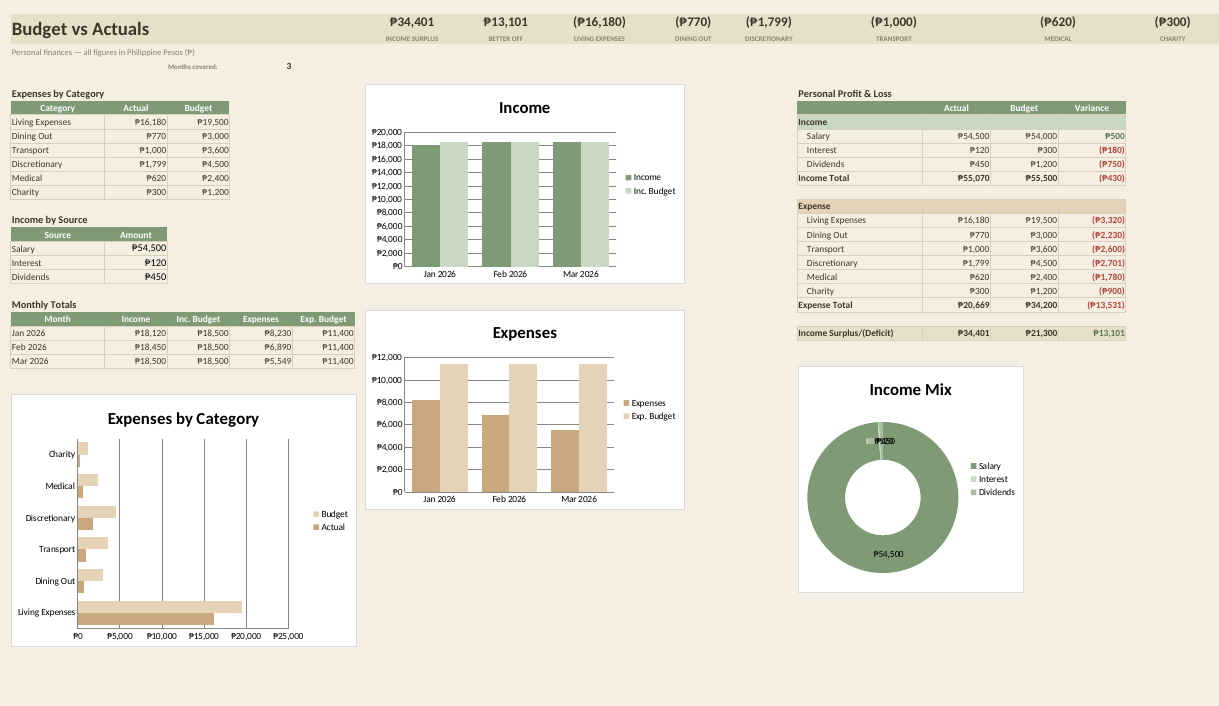
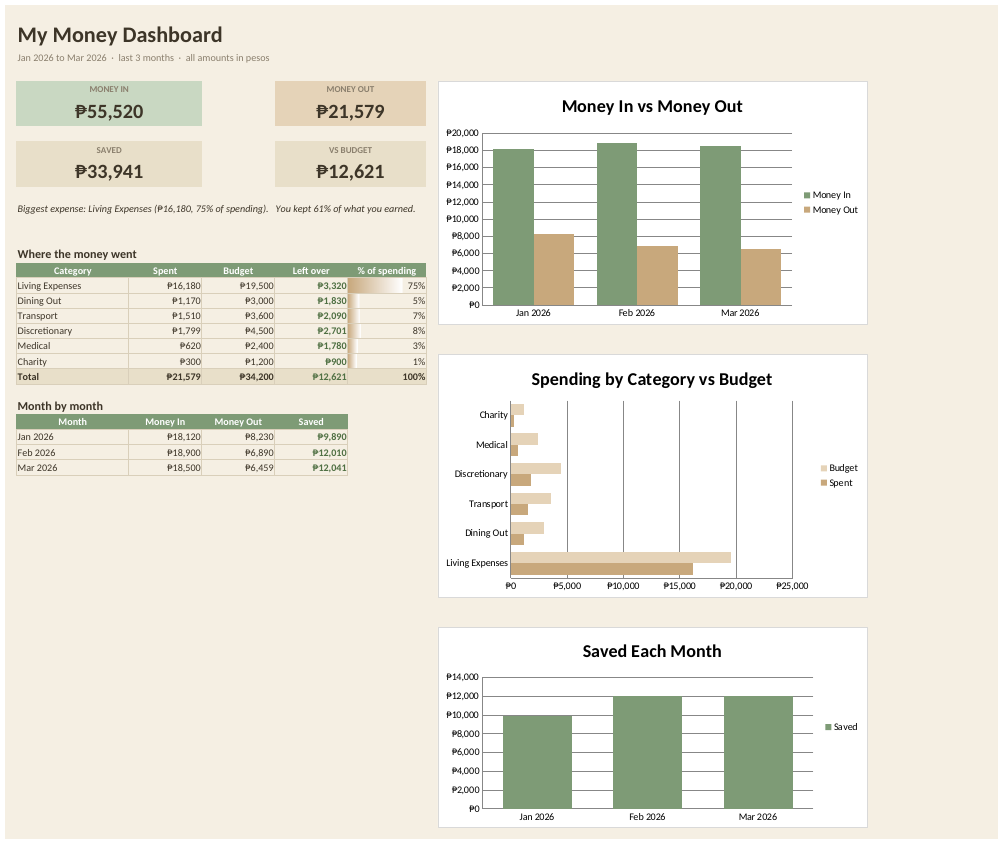
Update John Matthew Portfolio, update personal expense dashboard

diff --git a/index.html b/index.html
@@ -386,7 +386,7 @@
       </div>
       <div class="card">
         <h3>Personal Expense Dashboard</h3>
-        <p>A self-updating Excel dashboard tracking income and spending in pesos — formula-driven KPIs, a full profit &amp; loss breakdown, and four charts, built entirely with formulas so it recalculates as new rows are logged.</p>
+        <p>A self-updating Excel dashboard tracking income and spending in pesos. It always shows your three most recent months, and every number, chart, and summary line recalculates on its own as new rows are logged.</p>
         <div class="tags"><span class="tag">Excel</span><span class="tag">Formulas &amp; Charts</span><span class="tag">Data Analysis</span></div>
         <a href="#expense-dashboard" class="card-link">See how it was built ↓</a>
       </div>
@@ -497,7 +497,7 @@
       <h2>Personal Expense Dashboard</h2>
     </div>
     <p class="reveal" style="color:var(--muted); max-width:70ch; margin-top:-20px; margin-bottom:24px;">
-      A personal finance dashboard built in Excel — log an income or expense once, and every KPI, the profit &amp; loss table, and all four charts update on their own. Built to show real Excel proficiency: structured tables, cross-sheet formulas, conditional formatting, and charts — not just typed-in numbers. All figures in Philippine pesos.
+      A personal finance dashboard built in Excel, designed so anyone can read it in a few seconds. Log an income or expense once and every figure, chart, and the plain-language summary at the top update on their own — the sheet always reports your three most recent months. Built to show real Excel proficiency: structured tables, cross-sheet formulas, conditional formatting, and charts rather than typed-in numbers. All figures in Philippine pesos.
     </p>
 
     <div class="reveal" style="background:var(--panel); border:1px solid var(--line); border-radius:var(--radius); padding:16px; margin-bottom:28px;">
@@ -508,20 +508,20 @@
       <div>
         <h3 class="dash-build-head">How it's built</h3>
         <ul class="dash-build-list">
-          <li><strong>Four linked sheets</strong> — separate Income and Expense logs for data entry (both with dropdown-restricted columns so entries stay consistent), a Budget sheet for monthly targets, and the Dashboard itself.</li>
-          <li><strong>Formula-driven, not hardcoded</strong> — every KPI, table, and chart pulls from <code>SUMIFS</code>, <code>INDEX</code>/<code>MATCH</code>, and <code>SUMPRODUCT</code> formulas, so the whole dashboard recalculates the moment a new row is logged.</li>
-          <li><strong>Budgets scale to the period</strong> — the sheet counts how many months your data covers and scales the monthly targets to match, so a 3-month log is compared against 3 months of budget instead of one.</li>
-          <li><strong>Conditional formatting</strong> — the Variance column turns red when you're behind target and green when you're ahead, for a quick visual scan.</li>
-          <li><strong>Four charts</strong> — expenses by category, income vs. budget by month, expenses vs. budget by month, and an income-mix donut, all reading live off the formula outputs.</li>
+          <li><strong>Three linked sheets</strong> — an Income log, an Expense log, and a Budget sheet. Both logs use dropdowns for Category and Payment Method so entries stay consistent.</li>
+          <li><strong>Rolling 3-month window</strong> — the sheet finds the newest date in your data and automatically reports only the three most recent months. Log an April salary and it drops January and picks up April on its own.</li>
+          <li><strong>Formula-driven, not typed in</strong> — every figure comes from <code>SUMIFS</code>, <code>INDEX</code>/<code>MATCH</code>, and <code>EOMONTH</code>, so nothing needs editing when new rows are added.</li>
+          <li><strong>Written in plain language</strong> — a line at the top says which category cost the most and what share of your income you kept, generated by formula rather than written by hand.</li>
+          <li><strong>Colour does the explaining</strong> — money left over shows green, overspending shows red, and data bars in the "% of spending" column make the biggest costs obvious at a glance.</li>
         </ul>
       </div>
       <div>
         <h3 class="dash-build-head">What it tracks</h3>
         <ul class="dash-build-list">
-          <li>Income surplus, how far ahead or behind budget you are, and a running total per spending category</li>
-          <li>Spending across six categories — living expenses, dining out, transport, discretionary, medical, and charity</li>
-          <li>A full personal profit &amp; loss statement: actual vs. budget vs. variance, line by line</li>
-          <li>Where your income comes from, and month-over-month income and expense trends</li>
+          <li>Four headline numbers: money in, money out, how much you saved, and whether you came in under budget</li>
+          <li>Spending across six categories, with how much budget is left in each</li>
+          <li>Month-by-month money in, money out, and savings</li>
+          <li>Three charts: income vs. spending, category vs. budget, and savings per month</li>
         </ul>
         <a href="Personal-Expense-Dashboard.xlsx" class="btn btn-primary" download style="margin-top:12px;">Download the Excel file</a>
       </div>
